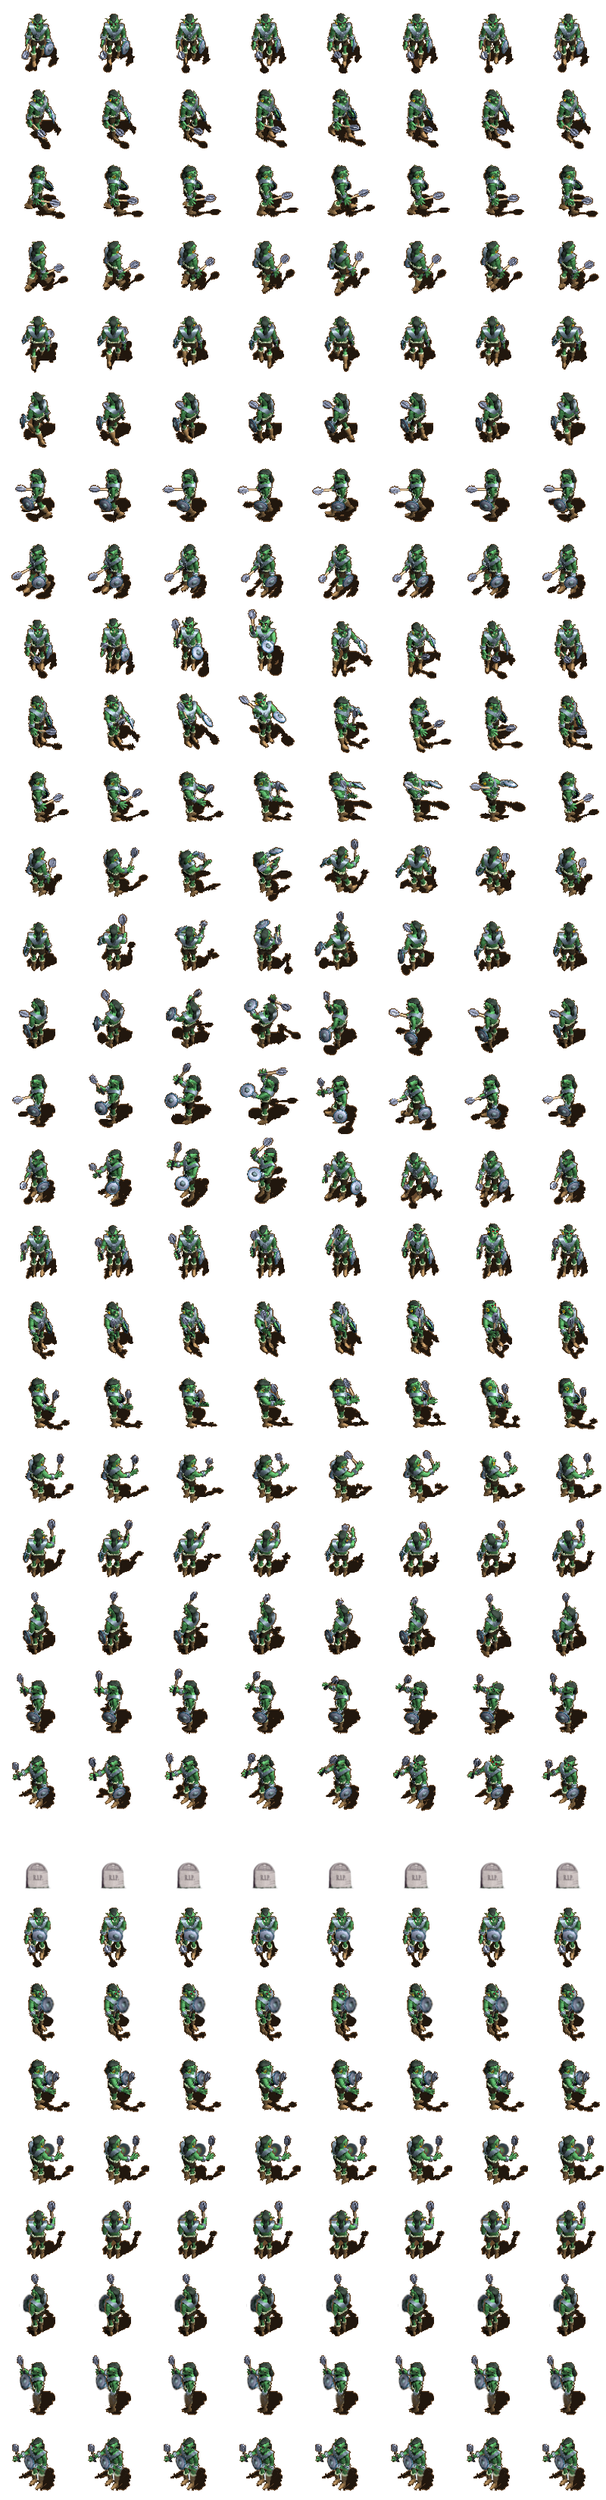
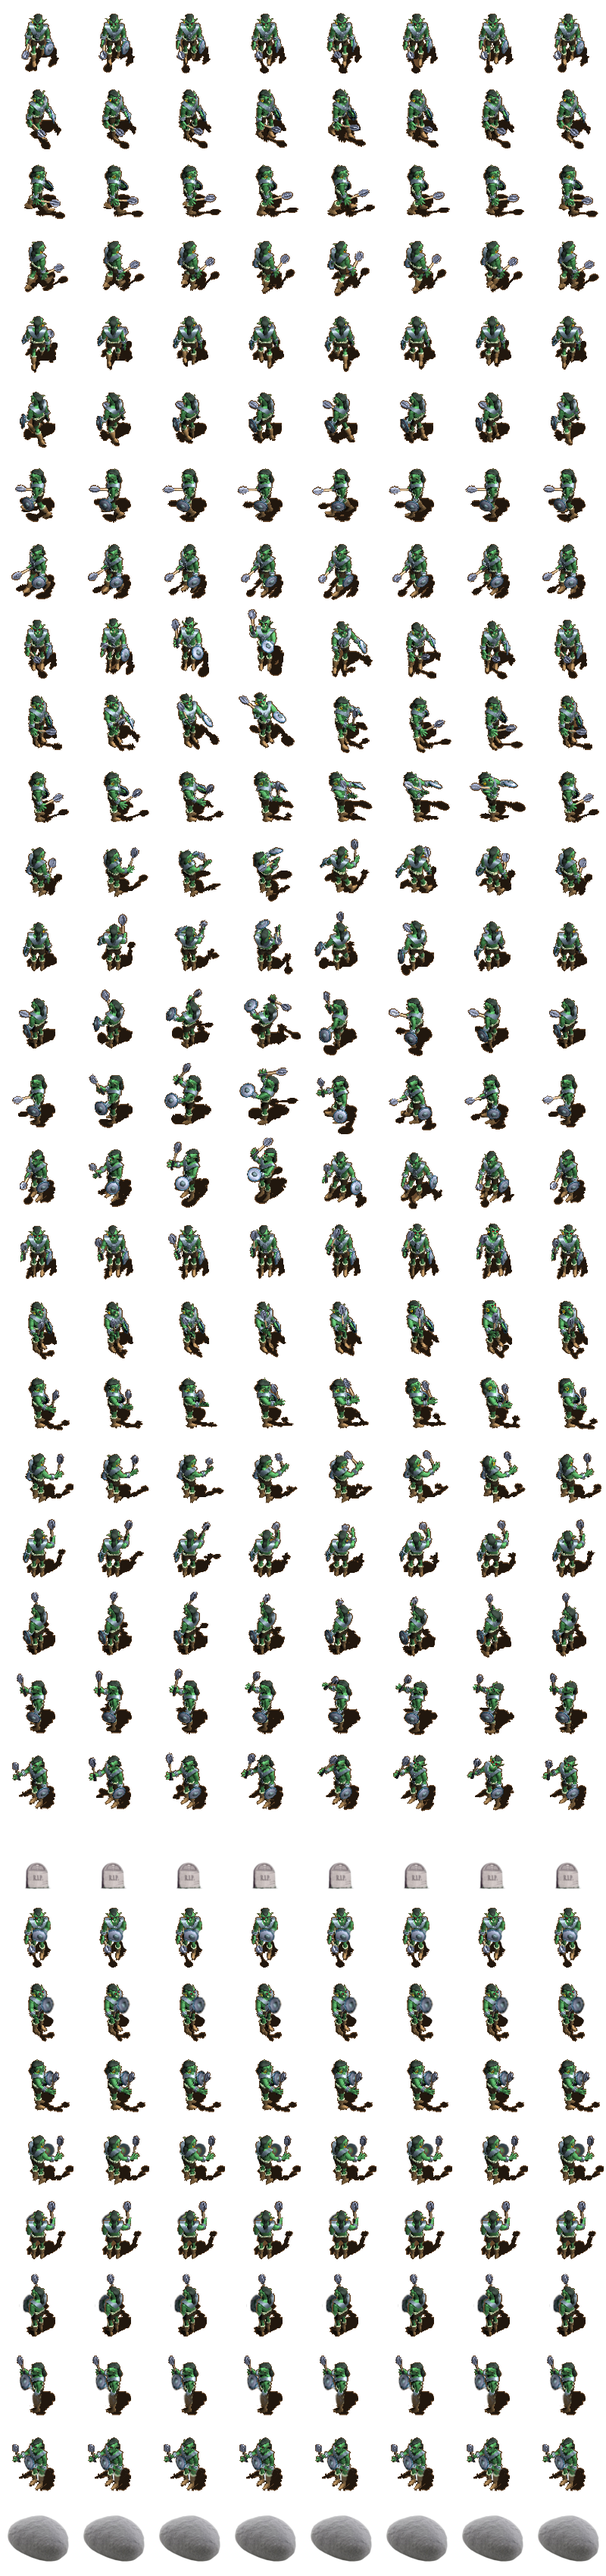
Cambios Personaje

Changed region(s): [[0.0, 0.0, 1.0, 0.9988]]

diff --git a/Diablo/source/utilities/ImagenPersonaje.cpp b/Diablo/source/utilities/ImagenPersonaje.cpp
@@ -24,6 +24,7 @@ ImagenPersonaje::ImagenPersonaje(const char* name , const int altoSprite ,
 	this -> accionActual = ImagenPersonaje::EST_SUR;
 	this -> setAccion(ImagenPersonaje::EST_SUR);
 	this -> freezado = false;
+	this -> fps = fps;
 }
 
 /**
@@ -51,6 +52,7 @@ ImagenPersonaje::ImagenPersonaje(const char* path , const int altoSprite , const
 	this -> accionActual = ImagenPersonaje::EST_SUR;
 	this -> setAccion(ImagenPersonaje::EST_SUR);
 	this -> freezado = false;
+	this -> fps = fps;
 }
 
 
@@ -74,7 +76,7 @@ ImagenPersonaje::~ImagenPersonaje() {
 	Post: Se ha seteado la accion.
 */
 void ImagenPersonaje::setAccionEfectiva(unsigned int accion) {
-	if ((accion < (unsigned int) this -> maxFilas) && (accion <= ImagenPersonaje::DEF_SUROESTE)) {
+	if ((accion < (unsigned int) this -> maxFilas) && (accion <= ImagenPersonaje::PIEDRA)) {
 		this -> accionSiguiente = accion;
 		int delta = this -> accionSiguiente	- this -> accionActual;	
 		if (delta != 0) {
@@ -123,6 +125,9 @@ void ImagenPersonaje::setAccionEfectiva(unsigned int accion) {
 								if ( (accionActual >= DEF_SUR) && (accionActual <= DEF_SUROESTE)){
 									this -> accionActual-= 9;
 									this -> columnaActual = 0;
+									//Siguiente Desplazamiento y Actual Piedra
+								} else {
+									this -> accionActual = accion;
 								}
 							}
 						}
@@ -176,6 +181,9 @@ void ImagenPersonaje::setAccionEfectiva(unsigned int accion) {
 									if ( (accionActual >= DEF_SUR) && (accionActual <= DEF_SUROESTE)){
 										this -> accionActual-= 17;
 										this -> columnaActual = 0;
+										//Siguiente Ataque actual piedra
+									} else {
+										this -> accionActual = accion;
 									}
 								}
 							}
@@ -224,8 +232,14 @@ void ImagenPersonaje::setAccionEfectiva(unsigned int accion) {
 										this -> columnaActual = 0;
 									} else {
 										//Siguiente Estatico actual defensa
-										this -> accionActual -= 9;
-										this -> columnaActual = 0;
+										if ((this -> accionActual >= ImagenPersonaje::DEF_SUR) &&
+											(this -> accionActual <= ImagenPersonaje::DEF_SUROESTE)) {
+											this -> accionActual -= 9;
+											this -> columnaActual = 0;
+											//Siguiente estatico actual piedra
+										} else {
+											this -> accionActual = accion;
+										}
 									}
 								}
 							}
@@ -248,22 +262,33 @@ void ImagenPersonaje::setAccionEfectiva(unsigned int accion) {
 										this -> accionActual += 9;
 										this -> columnaActual = 0;
 									} else {
+										//Siguiente Defensa y Actual Muerte
 										if ( this ->accionActual == ImagenPersonaje::MUERTE) {
 											this -> accionActual = ImagenPersonaje::MUERTE;
-										}									
+										} else {
+											this -> accionActual = accion;
+										}
 									}
 								}
 							}
-							// Siguiente Muerte
+							// Siguiente Muerte actual lo que sea
 						} else {
-							this -> accionActual = ImagenPersonaje::MUERTE;
-							this -> columnaActual = 0;
+						
+							if (accion == ImagenPersonaje::MUERTE){
+								this -> accionActual = ImagenPersonaje::MUERTE;
+								this -> columnaActual = 0;
+								// Siguiente piedra actual lo que sea
+							} else {
+								
+								this -> accionActual = ImagenPersonaje::PIEDRA;
+							}
 						}
 					}
 				}
 			}
 		}
 		//seteo de fila
+		
 		this -> filaActual = this -> accionActual;
 	}
 }
@@ -275,7 +300,7 @@ void ImagenPersonaje::setAccionEfectiva(unsigned int accion) {
 */
 bool ImagenPersonaje::setAccion(unsigned int accion){
 	bool retorno = false;
-	if (accion > ImagenPersonaje::DEF_SUROESTE) {
+	if (accion > ImagenPersonaje::PIEDRA) {
 		if (accion < ImagenPersonaje::CONTINUAR_CON_ACCION_ACTUAL) {
 			switch (accion) {
 				case ImagenPersonaje::AVANCE_DIRECCION_ACTUAL : {
@@ -296,6 +321,9 @@ bool ImagenPersonaje::setAccion(unsigned int accion){
 									// Si accion actual defensa
 									if ( (accionActual >= DEF_SUR) && (accionActual <= DEF_SUROESTE)){
 										this -> setAccionEfectiva(this -> accionActual-25);
+									} else {
+										// Accion actual piedra
+										this -> setAccionEfectiva(ImagenPersonaje::DES_SUR);
 									}
 								}
 							}
@@ -320,6 +348,9 @@ bool ImagenPersonaje::setAccion(unsigned int accion){
 								// Accion actual defensa
 								if ( (accionActual >= DEF_SUR) && (accionActual <= DEF_SUROESTE) ) {
 									this -> setAccionEfectiva( this -> accionActual-17);
+								} else {
+									// Actual piedra
+									this -> setAccionEfectiva(ImagenPersonaje::AT_SUR);
 								}
 							}
 						}
@@ -343,6 +374,9 @@ bool ImagenPersonaje::setAccion(unsigned int accion){
 								if ( (this ->accionActual >= ImagenPersonaje::DEF_SUR) &&
 									 (this ->accionActual <= ImagenPersonaje::DEF_SUROESTE)) {
 									this -> setAccionEfectiva(this -> accionActual - 9);
+								} else {
+									// Accion actual piedra
+									this -> setAccionEfectiva( ImagenPersonaje::DEF_SUR);
 								}
 							}
 						}
@@ -364,6 +398,9 @@ bool ImagenPersonaje::setAccion(unsigned int accion){
 							} else {
 								// Accion actual muerte
 								if ( this -> accionActual == ImagenPersonaje::MUERTE) {
+									this -> setAccionEfectiva(ImagenPersonaje::DEF_SUR);
+								} else {
+									// Accion actual piedra
 									this -> setAccionEfectiva(ImagenPersonaje::DEF_SUR);
 								}
 							}
@@ -462,4 +499,8 @@ unsigned int ImagenPersonaje::getTipoAccion() {
 
 bool ImagenPersonaje::isImagenFreezada(){
 	return this -> freezado;
+}
+
+unsigned int ImagenPersonaje::getFPS(){
+	return this -> fps;
 }

diff --git a/Diablo/source/utilities/Personaje.cpp b/Diablo/source/utilities/Personaje.cpp
@@ -947,6 +947,19 @@ void Personaje::animacionMuerte() {
 	}
 }
 
+
+/*
+*/
+void Personaje::animacionPiedra() {
+	printf("\n---------------------------------Piedra---------------------------------------\n");
+	ImagenPersonaje* imagenPersonaje = static_cast<ImagenPersonaje*> (this -> imagen);
+	this -> tileDestino = NULL;
+	if (imagenPersonaje != NULL){
+		printf("\n---------------------------------Piedra---------------------------------------\n");
+		imagenPersonaje -> setAccion(ImagenPersonaje::PIEDRA);
+	}
+}
+
 void Personaje::animacionRevivir() {
 	ImagenPersonaje* imagenPersonaje = static_cast<ImagenPersonaje*> (this -> imagen);
 	this -> tileDestino = NULL;
@@ -1550,8 +1563,8 @@ void Personaje::utilizarTransmutacion(std::string nick_enemigo) {
 	char cambio=rand()%2;
 	if (cambio == 0) {
 		//Se convierte en lapida
-		std::cout << "Convertiendo en lapida a " << nick_enemigo << endl;
-		pjm.getPje(nick_enemigo).animacionMuerte();
+		std::cout << "Convertiendo en piedra a " << nick_enemigo << endl;
+		pjm.getPje(nick_enemigo).animacionPiedra();
 		BitStream bs;
 		bs << PROTO::TRANSMUT << TIPO::LAPIDA << nick_enemigo;
 		sock.send(bs.str());
@@ -1575,5 +1588,23 @@ void Personaje::updateTransmutacion() {
 		bs << PROTO::DESTRANSMUT << tipoTransmut << transmutado;
 		sock.send(bs.str());
 		tTransmut.stop();
+	}
+}
+
+void Personaje::cambiarApariencia(const std::string& name,ResMan& rm , const int colorKey){
+	if(this -> imagen != NULL) {
+		ImagenPersonaje* imagenPersonaje = static_cast<ImagenPersonaje*>(this->imagen);
+		unsigned int fps = imagenPersonaje -> getFPS() ;
+		unsigned int delay = imagenPersonaje -> getDelay();
+		unsigned int altoSprite = imagenPersonaje -> getAlto();
+		unsigned int anchoSprite = imagenPersonaje -> getAncho();
+		unsigned int accionActual = imagenPersonaje->getAccionActual();
+		unsigned int accionSiguiente = imagenPersonaje ->getAccionSiguiente();
+		delete(this -> imagen);
+		this -> imagen	= new ImagenPersonaje(name.c_str() , altoSprite , 
+								anchoSprite , fps , delay , rm ,colorKey);	
+		imagenPersonaje = static_cast<ImagenPersonaje*>(this->imagen);
+		imagenPersonaje -> setAccionActual(accionActual);
+		imagenPersonaje -> setAccionSiguiente(accionSiguiente);
 	}
 }

diff --git a/Diablo/source/utilities/ImagenPersonaje.h b/Diablo/source/utilities/ImagenPersonaje.h
@@ -46,19 +46,23 @@ public:
 	const static unsigned int DEF_NOROESTE = 30;
 	const static unsigned int DEF_OESTE = 31;
 	const static unsigned int DEF_SUROESTE = 32;
+
+	// Piedra
+	const static unsigned int PIEDRA = 33;
+
 	//Avanzar direccion actual
-	const static unsigned int AVANCE_DIRECCION_ACTUAL = 33;
+	const static unsigned int AVANCE_DIRECCION_ACTUAL = 34;
 	//Atacar en direccion actual
-	const static unsigned int ATAQUE_DIRECCION_ACTUAL = 34;
+	const static unsigned int ATAQUE_DIRECCION_ACTUAL = 35;
 	//Quieto en direccion actual
-	const static unsigned int ESTATICO_DIRECCION_ACTUAL = 35;
+	const static unsigned int ESTATICO_DIRECCION_ACTUAL = 36;
 	//Defender direccion actual
-	const static unsigned int DEFENSA_DIRECCION_ACTUAL = 36;
+	const static unsigned int DEFENSA_DIRECCION_ACTUAL = 37;
 	//Freezar accion actual
-	const static unsigned int FREEZAR_ACCION_ACTUAL = 37;
-	const static unsigned int DESFREEZAR_ACCION_ACTUAL = 38;
+	const static unsigned int FREEZAR_ACCION_ACTUAL = 38;
+	const static unsigned int DESFREEZAR_ACCION_ACTUAL = 39;
 	//Continua con la accion actual
-	const static unsigned int CONTINUAR_CON_ACCION_ACTUAL = 39;
+	const static unsigned int CONTINUAR_CON_ACCION_ACTUAL = 40;
 
 private:
 
@@ -67,6 +71,8 @@ private:
 	unsigned int accionSiguiente;
 
 	bool freezado;
+
+	unsigned int fps;
 
 public:	
 
@@ -140,9 +146,26 @@ public:
 
 	virtual bool isImagenFreezada();
 
+	unsigned int getFPS();
+
+	unsigned int getAccionActual() {
+		return this -> accionActual;
+	}
+
+	unsigned int getAccionSiguiente(){
+		return this -> accionSiguiente;
+	}
+	void setAccionActual(unsigned int accionActual) {
+		this -> accionActual = accionActual;
+	}
+
+	void setAccionSiguiente(unsigned int accionSiguiente){
+		this -> accionSiguiente = accionSiguiente;
+	}
+	
 private:
 
-	/*
+/*
 		Pre: La instancia ha sido creada y el parametro es una accion entre 0 y 24.
 
 		Post: Se ha seteado la accion.

diff --git a/Diablo/Cliente/clientsocket.cpp b/Diablo/Cliente/clientsocket.cpp
@@ -812,11 +812,11 @@ void ClientSocket::listenDo() {
 			bs >> nick;
 			if (tipo == TIPO::LAPIDA) {
 				if (pjm.getPjeLocal().getNick() == nick) {
-					pjm.getPjeLocal().animacionMuerte();
+					pjm.getPjeLocal().animacionPiedra();
 				} else {
-					pjm.getPje(nick).animacionMuerte();
+					pjm.getPje(nick).animacionPiedra();
 				}				
-				std::cout << "Convirtiendo a " << nick << " en lapida" << endl;
+				std::cout << "Convirtiendo a " << nick << " en piedra" << endl;
 			} else if (tipo == TIPO::ESTRATEGIA_ENEMY) {
 				std::cout << "Enemigo " << nick << "cambiando de estrategia" << endl;
 			}				

diff --git a/Diablo/source/utilities/Personaje.h b/Diablo/source/utilities/Personaje.h
@@ -286,6 +286,9 @@ public:
 
 	void animacionRevivir();
 
+	//Animaciones
+	void animacionPiedra();
+
 	/*
 		Pre: La instancia ha sido creada.
 		Post: Se setea el Tile destino.
@@ -610,6 +613,6 @@ protected:
 	//Muerte del personaje
 	void muere();
 
-	
+	void cambiarApariencia(const std::string& name,ResMan& rm , const int colorKey);
 
 };
